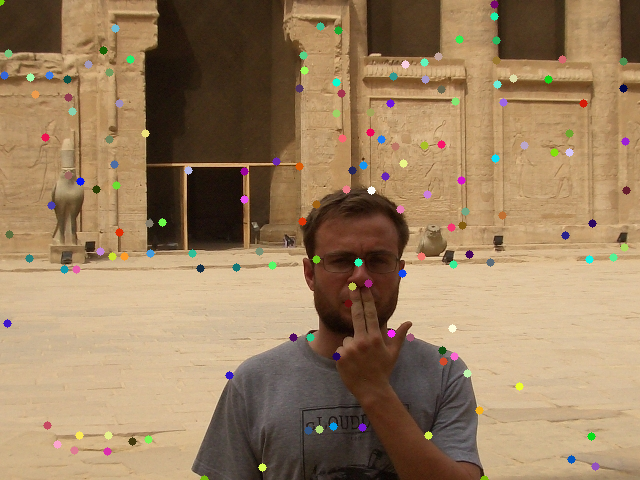
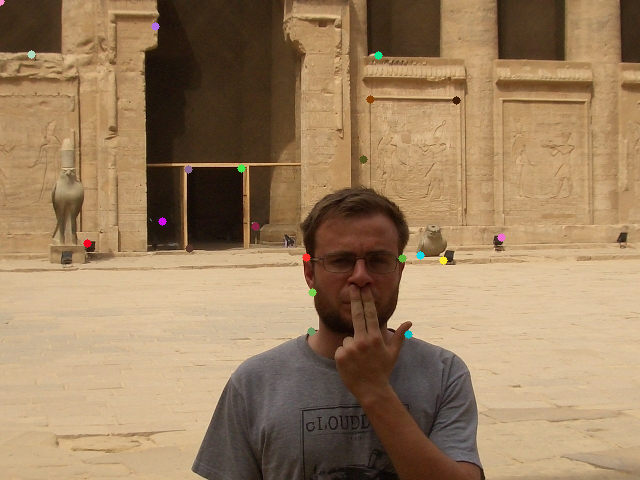
Updated solution 5-1-1

diff --git a/Project_5/proj5-1-1/Pyramid.cpp b/Project_5/proj5-1-1/Pyramid.cpp
@@ -30,7 +30,6 @@ cv::Mat Pyramid::Reduce( const cv::Mat &_input, int _windowSize ) {
     }
 
     // Set some values
-    bool colorFlag = false;
     int rows = _input.rows;
     int cols = _input.cols;
     int rows2 = _input.rows / 2;
@@ -38,16 +37,10 @@ cv::Mat Pyramid::Reduce( const cv::Mat &_input, int _windowSize ) {
     int wsize = _windowSize;
     int wsize2 = wsize / 2;
 
-    if( _input.type() == CV_8UC3 ) { colorFlag = true; printf("True color \n");}
-
-    // Create original grayscale
-    cv::Mat grayscale;
-    cvtColor( _input, grayscale, CV_BGR2GRAY );
-
     // Pad it by the size of the window
-    cv::Mat padded = cv::Mat( rows + 2*wsize2, cols + 2*wsize2, CV_8UC1 );
+    cv::Mat padded = cv::Mat( rows + 2*wsize2, cols + 2*wsize2, CV_8UC3 );
    
-    cv::copyMakeBorder( grayscale, padded, 
+    cv::copyMakeBorder( _input, padded, 
                         wsize2, wsize2, 
                         wsize2, wsize2, 
                         cv::BORDER_REPLICATE, cv::Scalar::all(0) );  
@@ -65,52 +58,47 @@ cv::Mat Pyramid::Reduce( const cv::Mat &_input, int _windowSize ) {
     // Create reduced Matrix
     float *reducedFloat;
     reducedFloat = new float[rows2*cols2];
-    cv::Mat reduced = cv::Mat::zeros( rows2, cols2, CV_8UC1 );
+    cv::Mat reduced = cv::Mat::zeros( rows2, cols2, CV_8UC3 );
 
-    // Apply 
-    float sum;
-    int ind = 0;
-    for( unsigned j = 0; j < rows2; j++ ) {
-      for( unsigned i = 0; i < cols2; i++ ) {
-        sum = 0;         
-        for( int m = -wsize2; m <= wsize2; m++ ) {
-          for( int n = -wsize2; n <= wsize2; n++ ) {
-            float g= (float) padded.at<uchar>(2*j + m + wsize2, 2*i + n + wsize2); 
-            sum += window[m+wsize2][n+wsize2]*g;
-          }     
-        } 
-        reducedFloat[ind] = sum;
-        ind++;
+    // Apply for each channel 
+    for( int k = 0; k < 3; k++ ) {
+
+      float sum;
+      int ind = 0;
+      for( unsigned j = 0; j < rows2; j++ ) {
+        for( unsigned i = 0; i < cols2; i++ ) {
+          sum = 0;         
+          for( int m = -wsize2; m <= wsize2; m++ ) {
+            for( int n = -wsize2; n <= wsize2; n++ ) {
+              float g= (float) padded.at<cv::Vec3b>(2*j + m + wsize2, 2*i + n + wsize2)[k]; 
+              sum += window[m+wsize2][n+wsize2]*g;
+            }     
+          } 
+          reducedFloat[ind] = sum;
+          ind++;
+        }
       }
-    }
 
-    // Go to integer values
-   float minG = *std::min_element( reducedFloat, reducedFloat + rows2*cols2 );
-   float maxG = *std::max_element( reducedFloat, reducedFloat + rows2*cols2 );
+      // Go to integer values
+     float minG = *std::min_element( reducedFloat, reducedFloat + rows2*cols2 );
+     float maxG = *std::max_element( reducedFloat, reducedFloat + rows2*cols2 );
 
-   printf("minG: %.4f \n", minG );
-   printf("maxG: %.4f \n", maxG );
+     printf("--minG: %.4f channel: %d \n", minG, k );
+     printf("--maxG: %.4f channel: %d \n", maxG, k );
 
-   ind = 0;
-   for( unsigned int j = 0; j < rows2; j++ )
-   {  for( unsigned int i = 0; i < cols2; i++ )
-      {
-         uchar d = (uchar) 255.0*( reducedFloat[ind] - minG )/( maxG - minG );
-         reduced.at<uchar>(j,i) = d; 
-         ind++; 
-      }
-   }
+     ind = 0;
+     for( unsigned int j = 0; j < rows2; j++ )
+     {  for( unsigned int i = 0; i < cols2; i++ )
+        {
+           uchar d = (uchar) 255.0*( reducedFloat[ind] - minG )/( maxG - minG );
+           reduced.at<cv::Vec3b>(j,i)[k] = d; 
+           ind++; 
+        }
+     }
 
-    // Back to original form, if needed
-cv::Mat reducedColor;
-    if( colorFlag == true )
-    {   
-        
-        cvtColor( reduced, reducedColor, CV_GRAY2BGR, 3 );
-        return reducedColor;
-    } else {
-        return reduced; 
-    }
+   } // end for channels
+
+  return reduced; 
 }
 
 /**

diff --git a/Project_4/proj4-2-2/Matching.cpp b/Project_4/proj4-2-2/Matching.cpp
@@ -40,7 +40,7 @@ void Matching::Init_Pair1( const cv::Mat &_img1,
    cvtColor( mColor1, mPair1, CV_BGR2GRAY );
 
    // Gauss filter
-   cv::GaussianBlur( mPair1, mPair1, cv::Size(3,3),0,0 );
+   cv::GaussianBlur( mPair1, mPair1, cv::Size(5,5),0,0 );
 
    mG1.Init( mPair1 );
 
@@ -100,7 +100,7 @@ void Matching::Init_Pair2( const cv::Mat &_img2,
    cvtColor( mColor2, mPair2, CV_BGR2GRAY );
 
    // Gauss filter
-   cv::GaussianBlur( mPair2, mPair2, cv::Size(3,3),0,0 );
+   cv::GaussianBlur( mPair2, mPair2, cv::Size(5,5),0,0 );
 
    mG2.Init( mPair2 );
 
@@ -145,7 +145,7 @@ void Matching::Init_Pair2( const cv::Mat &_img2,
  */
 void Matching::buildSIFTDescriptor1() {
  
-    cv::SIFT sift( 2.0, true, false );
+    cv::SIFT sift( 1.5, true, false );
     sift( mPair1, cv::Mat(), mKeyPoints1, mDescriptor1, true );
 }
 
@@ -171,15 +171,15 @@ cv::Mat Matching::BruteMatcher() {
   */
   matcher.match( mDescriptor1, mDescriptor2, mMatches );
 
-  double max_dist = 0; double min_dist = 1000;
+  float max_dist = 0; float min_dist = 1000;
 
   //-- Quick calculation of max and min distances between keypoints
   for( int i = 0; i < mDescriptor1.rows; i++ )
-  { double dist = mMatches[i].distance;
+  { float dist = mMatches[i].distance;
     if( dist < min_dist ) min_dist = dist;
     if( dist > max_dist ) max_dist = dist;
   }
-
+  printf("-- Original matches: %d \n", mMatches.size());
   printf("-- Max dist : %f \n", max_dist );
   printf("-- Min dist : %f \n", min_dist );
   
@@ -188,7 +188,7 @@ cv::Mat Matching::BruteMatcher() {
   mGoodMatches.resize(0);
 
   for( int i = 0; i < mDescriptor1.rows; i++ )
-  { if( mMatches[i].distance < 1.5*min_dist )
+  { if( mMatches[i].distance < 1.2*min_dist )
     { mGoodMatches.push_back( mMatches[i]); }
   } 
 

diff --git a/Project_4/proj4-3-2/proj4-3-2.cpp b/Project_4/proj4-3-2/proj4-3-2.cpp
@@ -10,6 +10,8 @@
 
 char* windowMatches = "Matches";
 char* windowConsensus = "Consensus Set";
+char* windowStitched = "Stitched image";
+cv::Mat stitched;
 
 cv::Mat img1;
 cv::Mat img2;
@@ -42,14 +44,14 @@ int main( int argc, char* argv[] )
   
  
    cv::namedWindow( windowMatches, CV_WINDOW_NORMAL );
-   imshow( windowMatches, matches );
+   imshow( windowMatches, m.DrawMatches() );
 
-
+   m.Surfie();
    Ransac r;
    printf("N: %d \n", r.mSimilarity_N );
    r.RansacSimilarity( m.mKeyPoints1, 
 												m.mKeyPoints2,    
-                        m.mGoodMatches );
+                        m.mMatches );
 
    cv::Mat consensusImage = r.drawConsensusSet( img1, img2 );
 
@@ -57,6 +59,20 @@ int main( int argc, char* argv[] )
    imshow( windowConsensus, consensusImage );
 
    imwrite("proj4-3-2.png", consensusImage );
+
+   /// Showing results
+
+   cv::Mat M = cv::Mat( 2, 3, CV_32FC1 );
+   M.at<float>(0,0) = 1.138873; M.at<float>(0,1) =0.974904; M.at<float>(0,2) = -109.045906;
+   M.at<float>(1,0) = -0.974904; M.at<float>(1,1) = 1.138873; M.at<float>(1,2) = 264.759216;
+
+   cv::Mat dst1 = cv::Mat::zeros( img1.rows, img1.cols, img1.type() );
+   cv::warpAffine( img1, dst1, M, img1.size(), cv::INTER_LINEAR );
+   cv::addWeighted( dst1, 0.5, img2, 0.5, 0.0, stitched );
+   
+   cv::namedWindow( windowStitched, CV_WINDOW_NORMAL );
+   imshow( windowStitched, stitched );
+
   
    cv::waitKey(0);
 

diff --git a/Project_4/proj4-2-2/Gradient.cpp b/Project_4/proj4-2-2/Gradient.cpp
@@ -47,14 +47,14 @@ void Gradient::Init( const cv::Mat &_img )
 
    // Sobel Filter
   mMaskX = cv::Mat( 3, 3, CV_16SC1 );
-  mMaskX.at<short>(0,0) = -1; mMaskX.at<short>(0,1) = 0; mMaskX.at<short>(0,2) = 1;
-  mMaskX.at<short>(1,0) = -2; mMaskX.at<short>(1,1) = 0; mMaskX.at<short>(1,2) = 2;
-  mMaskX.at<short>(2,0) = -1; mMaskX.at<short>(2,1) = 0; mMaskX.at<short>(2,2) = 1;
+  mMaskX.at<short>(0,0) = 0; mMaskX.at<short>(0,1) = 0; mMaskX.at<short>(0,2) = 0;
+  mMaskX.at<short>(1,0) = -1; mMaskX.at<short>(1,1) = 0; mMaskX.at<short>(1,2) = 1;
+  mMaskX.at<short>(2,0) = 0; mMaskX.at<short>(2,1) = 0; mMaskX.at<short>(2,2) = 0;
 
   mMaskY = cv::Mat( 3, 3, CV_16SC1 );
-  mMaskY.at<short>(0,0) = -1; mMaskY.at<short>(0,1) = -2; mMaskY.at<short>(0,2) = -1;
+  mMaskY.at<short>(0,0) =  0; mMaskY.at<short>(0,1) = -1; mMaskY.at<short>(0,2) = 0;
   mMaskY.at<short>(1,0) =  0; mMaskY.at<short>(1,1) =  0; mMaskY.at<short>(1,2) =  0;
-  mMaskY.at<short>(2,0) =  1; mMaskY.at<short>(2,1) =  2; mMaskY.at<short>(2,2) =  1;
+  mMaskY.at<short>(2,0) =  0; mMaskY.at<short>(2,1) =  1; mMaskY.at<short>(2,2) =  0;
 
   // Harris weights
   mWeightH = cv::Mat( 3, 3, CV_16SC1 );

diff --git a/Project_4/proj4-3-1/proj4-3-1.cpp b/Project_4/proj4-3-1/proj4-3-1.cpp
@@ -10,6 +10,8 @@
 
 char* windowMatches = "Matches";
 char* windowConsensus = "Consensus Set";
+char* windowStitched = "Stitched image";
+cv::Mat stitched;
 
 cv::Mat img1;
 cv::Mat img2;
@@ -55,7 +57,21 @@ int main( int argc, char* argv[] )
    imshow( windowConsensus, consensusImage );
 
    imwrite("proj4-3-1.png", consensusImage );
+
+   /// Showing results
+
+   cv::Mat M = cv::Mat( 2, 3, CV_32FC1 );
+   M.at<float>(0,0) = 1; M.at<float>(0,1) = 0; M.at<float>(0,2) = 319;
+   M.at<float>(1,0) = 0; M.at<float>(1,1) = 1; M.at<float>(1,2) = -162;
+   M.at<float>(2,0) = 0; M.at<float>(2,1) = 0; M.at<float>(2,2) = 1;
+
+   cv::Mat dst1 = cv::Mat::zeros( img1.rows, img1.cols, img1.type() );
+   cv::warpAffine( img1, dst1, M, img1.size(), cv::INTER_LINEAR );
+   cv::addWeighted( dst1, 0.5, img2, 0.5, 0.0, stitched );
    
+   cv::namedWindow( windowStitched, CV_WINDOW_NORMAL );
+   imshow( windowStitched, stitched );
+
    cv::waitKey(0);
 
    return 0;

diff --git a/Project_4/proj4-3-2/Ransac.cpp b/Project_4/proj4-3-2/Ransac.cpp
@@ -13,7 +13,7 @@ Ransac::Ransac() {
     mSimilarity_s = 2;
     mSimilarity_P = 0.99;
 
-    mSimilarity_e = 0.7;
+    mSimilarity_e = 0.95;
 
     mSimilarity_N = (int) ( log( 1 - mSimilarity_P ) / log(1- pow( (1 - mSimilarity_e), mSimilarity_s )) );
     printf("N: %d \n", mSimilarity_N );
@@ -111,7 +111,7 @@ void Ransac::RansacSimilarity( std::vector<cv::KeyPoint> _points1,
         mSample_c = mParam.at<float>( 2,0 );
         mSample_d = mParam.at<float>( 3,0 );
     
-        printf("(!) Random index: %d-%d  Sample a: %f  sample b: %f  sample c: %f  sample d: %f  \n", sampleIndex1, sampleIndex2, mSample_a, mSample_b, mSample_c, mSample_d ); 
+        //printf("(!) Random index: %d-%d  Sample a: %f  sample b: %f  sample c: %f  sample d: %f  \n", sampleIndex1, sampleIndex2, mSample_a, mSample_b, mSample_c, mSample_d ); 
  
         // Calculate outliers
         int count = 2;

diff --git a/Project_4/proj4-3-2/Matching.cpp b/Project_4/proj4-3-2/Matching.cpp
@@ -40,7 +40,7 @@ void Matching::Init_Pair1( const cv::Mat &_img1,
    cvtColor( mColor1, mPair1, CV_BGR2GRAY );
 
    // Gauss filter
-   cv::GaussianBlur( mPair1, mPair1, cv::Size(3,3),0,0 );
+   cv::GaussianBlur( mPair1, mPair1, cv::Size(5,5),0,0 );
 
    mG1.Init( mPair1 );
 
@@ -100,7 +100,7 @@ void Matching::Init_Pair2( const cv::Mat &_img2,
    cvtColor( mColor2, mPair2, CV_BGR2GRAY );
 
    // Gauss filter
-   cv::GaussianBlur( mPair2, mPair2, cv::Size(3,3),0,0 );
+   cv::GaussianBlur( mPair2, mPair2, cv::Size(5,5),0,0 );
 
    mG2.Init( mPair2 );
 

diff --git a/Project_5/proj5-1-1/proj5-1-1.cpp b/Project_5/proj5-1-1/proj5-1-1.cpp
@@ -30,8 +30,8 @@ int main( int argc, char* argv[] ) {
     GP.resize(4);
     GP[0] = img.clone();
     GP[1] = pyr.Reduce( GP[0], 1*wsize );
-    GP[2] = pyr.Reduce( GP[1], 1*wsize );
-    GP[3] = pyr.Reduce( GP[2], 1*wsize );     
+    GP[2] = pyr.Reduce( GP[1], 2*wsize );
+    GP[3] = pyr.Reduce( GP[2], 4*wsize );     
 
 
     // Write images

diff --git a/Project_4/proj4-2-1/proj4-2-1.cpp b/Project_4/proj4-2-1/proj4-2-1.cpp
@@ -27,8 +27,8 @@ int main( int argc, char* argv[] )
    img1 = cv::imread( argv[1], 1 );
    img2 = cv::imread( argv[2], 1 );
 
-   m.Init_Pair1( img1, 0.05, 218, 9 );
-   m.Init_Pair2( img2, 0.05, 218, 9 );
+   m.Init_Pair1( img1, 0.05, 124, 6 );
+   m.Init_Pair2( img2, 0.05, 117, 3 );
 
 
    cv::Mat handy1 = m.DrawOrient1Handy();

diff --git a/Project_4/proj4-1-3/proj4-1-3.cpp b/Project_4/proj4-1-3/proj4-1-3.cpp
@@ -13,7 +13,7 @@ cv::Mat img_corners;
 cv::Mat img;
 cv::Mat imgColor;
 cv::Mat img_harris;
-int thresh = 132;
+int thresh = 117;
 int radius = 3;
 int maxRadius = 20;
 int maxThresh = 255;
